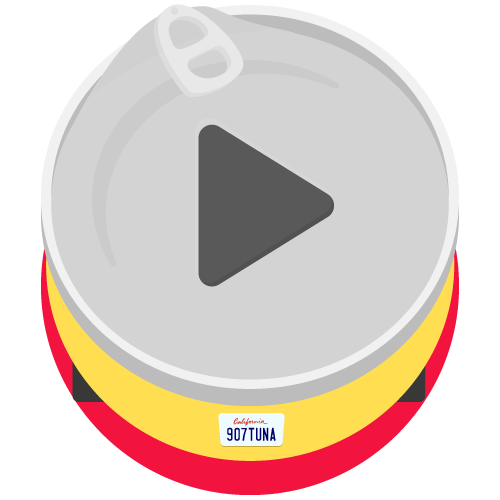
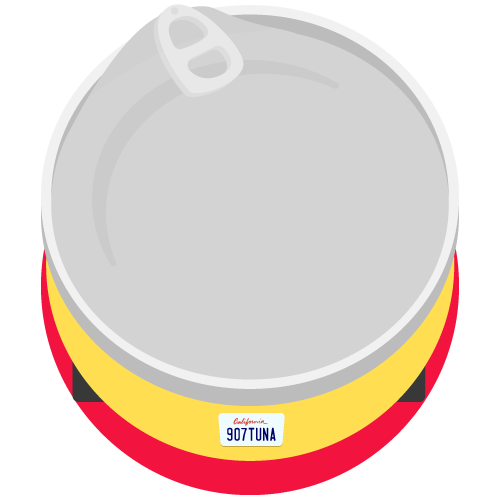
Play button toggle working

Changed region(s): [[0.39, 0.24, 0.69, 0.57]]

diff --git a/assets/js/custom.js b/assets/js/custom.js
@@ -7,23 +7,35 @@ $(document).ready(function(){
     'ep1': ''
   };
   var load = false;
+  var loadedTrack = 0;
+  var playingTrack = 0;
 
-  $('#click1').click(() => {
+  $('.play').click(() => {
     // console.log(widget.getCurrentSoundIndex());
-    if($("#click1").val() == ""){
-      console.log("INCREDIBLE!");
+    console.log($(".play").attr('id'));
+    var selectedTrack = $(".play").attr('id');
+    if(loadedTrack != selectedTrack){
+      $("#cloudplayer").attr("src", "https://w.soundcloud.com/player/?url=https%3A//api.soundcloud.com/tracks/293371157&amp;auto_play=true&amp;show_artwork=false&amp;color=7dddff&amp;hide_related=false&amp;show_comments=false&amp;show_user=false&amp;show_reposts=false&amp;visual=false");
+      loadedTrack = selectedTrack;
+
+    } else {
+      widget.toggle();
     }
-    console.log("Hey there" + $("#click1").val());
-    if(load == false){
-      $("#cloudplayer").attr("src", "https://w.soundcloud.com/player/?url=https%3A//api.soundcloud.com/tracks/293371157&amp;auto_play=false&amp;show_artwork=false&amp;color=7dddff&amp;hide_related=false&amp;show_comments=false&amp;show_user=false&amp;show_reposts=false&amp;visual=false");
+    if(playingTrack == selectedTrack){
+      playingTrack = 0;
+    } else {
+      playingTrack = selectedTrack;
     }
-    load = true;
-    // widget.load(episodes['mixtape'], defaultPlayerOptions);
+
+    if(playingTrack != selectedTrack){
+      caricon.src = "assets/images/play.png"
+    } else {
+      caricon.src = "assets/images/pause.png"
+    }
+
     $('.foot-player').css({
       "bottom": "0",
     });
-    car.src = "assets/images/CaliCar-pause.png";
-    widget.toggle();
   });
 });
 

diff --git a/assets/js/cog.js b/assets/js/cog.js
@@ -4,7 +4,7 @@ $(document).ready(function(){
    var top = true;
    var deg = 0;
    var page = 1;
-   $('#click1').hide();
+   $('.play').hide();
 
    div.scroll(function() {
      if (div.scrollTop() < bodyHeight*.75) {
@@ -15,7 +15,7 @@ $(document).ready(function(){
        $("#cog-right").css({
         "margin-right": ""+ div.scrollTop()-bodyHeight*.75 +"px",
        });
-      $('#click1').hide();
+      $('.play').hide();
        deg = 0;
        $('#navbar').css({
          "background-color": "#7DDFFF",
@@ -28,7 +28,7 @@ $(document).ready(function(){
       console.log("Page is " + page);
       if (div.scrollTop() > (bodyHeight*.75)-210){
         page = 1;
-        $('#click1').show();
+        $('.play').show();
         car.src = "assets/images/CaliCar.png";
 
         $('#navbar').css({
@@ -41,9 +41,9 @@ $(document).ready(function(){
       }
       if (div.scrollTop() > (2*bodyHeight*.75)-150) {
         page = 2;
-        $('#click1').show();
+        $('.play').show();
         car.src = "assets/images/ShareCar.png";
-        // $("#click1").css({
+        // $(".play").css({
         //   "background-color": "blue",
         // });
       }

diff --git a/index.html b/index.html
@@ -89,8 +89,9 @@
         </section>
 
 
-        <div class="play" id="click1" value="HELLO!">
-          <img class="car" name="car" src="assets/images/CaliCar-play.png" alt="">
+        <div class="play" id="1" value="HELLO!">
+          <img class="car" name="car" src="assets/images/CaliCar.png" alt="">
+          <img class="car icon" name="caricon" src="assets/images/play.png" alt="">
           <!-- <button type="button" id='click1'>Play1</button> -->
           <!-- <button type="button" id='click1'>Play2</button> -->
         </div>

diff --git a/assets/css/custom.css b/assets/css/custom.css
@@ -112,8 +112,12 @@ body {
   cursor: pointer;
 }
 
-.car{
+.play .car{
   width: 100%;
+}
+
+.play .icon {
+  transform: translateY(-100%);
 }
 
 #navbar{
